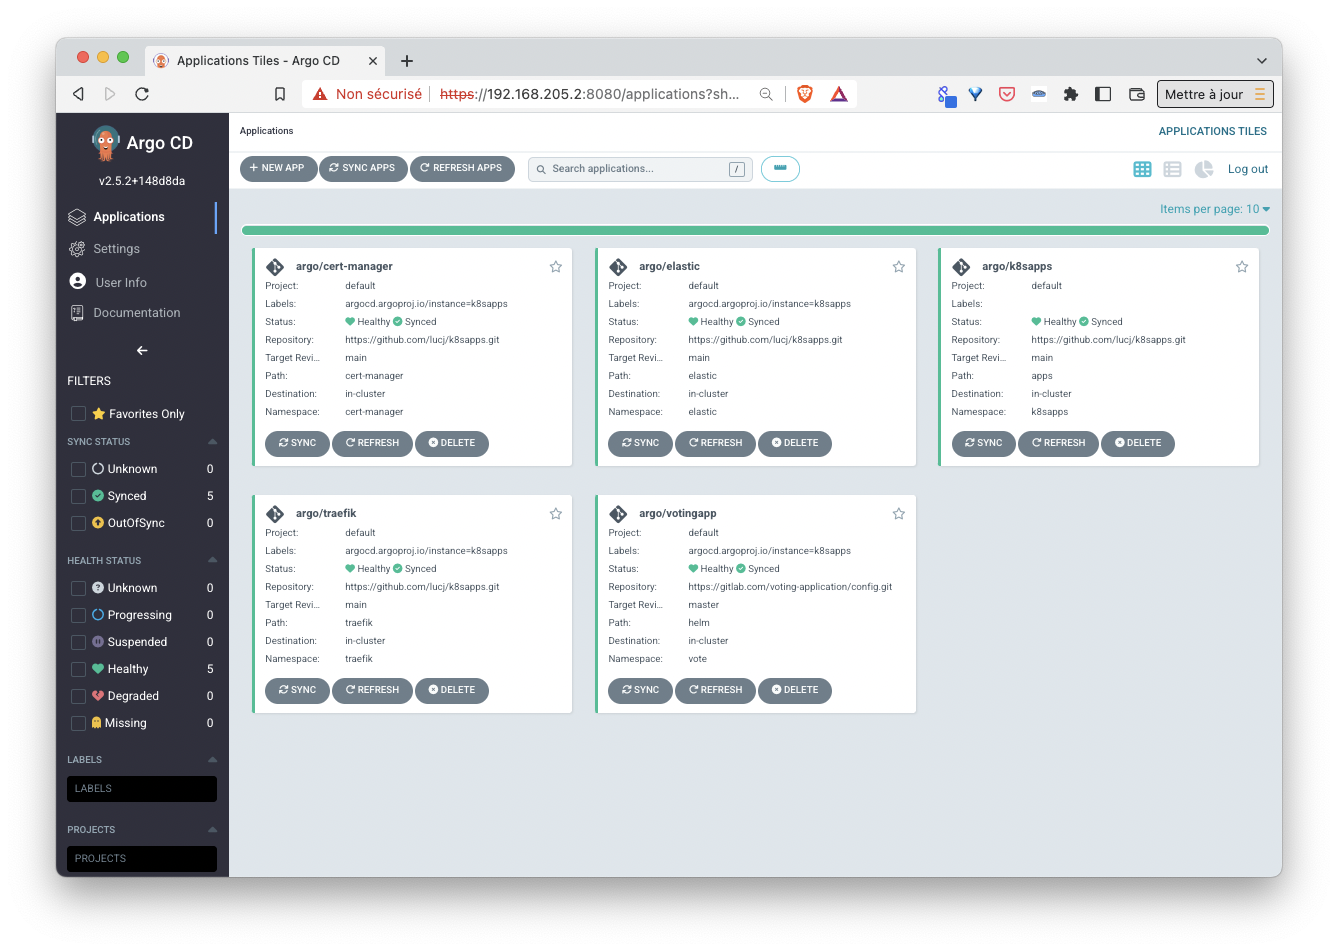
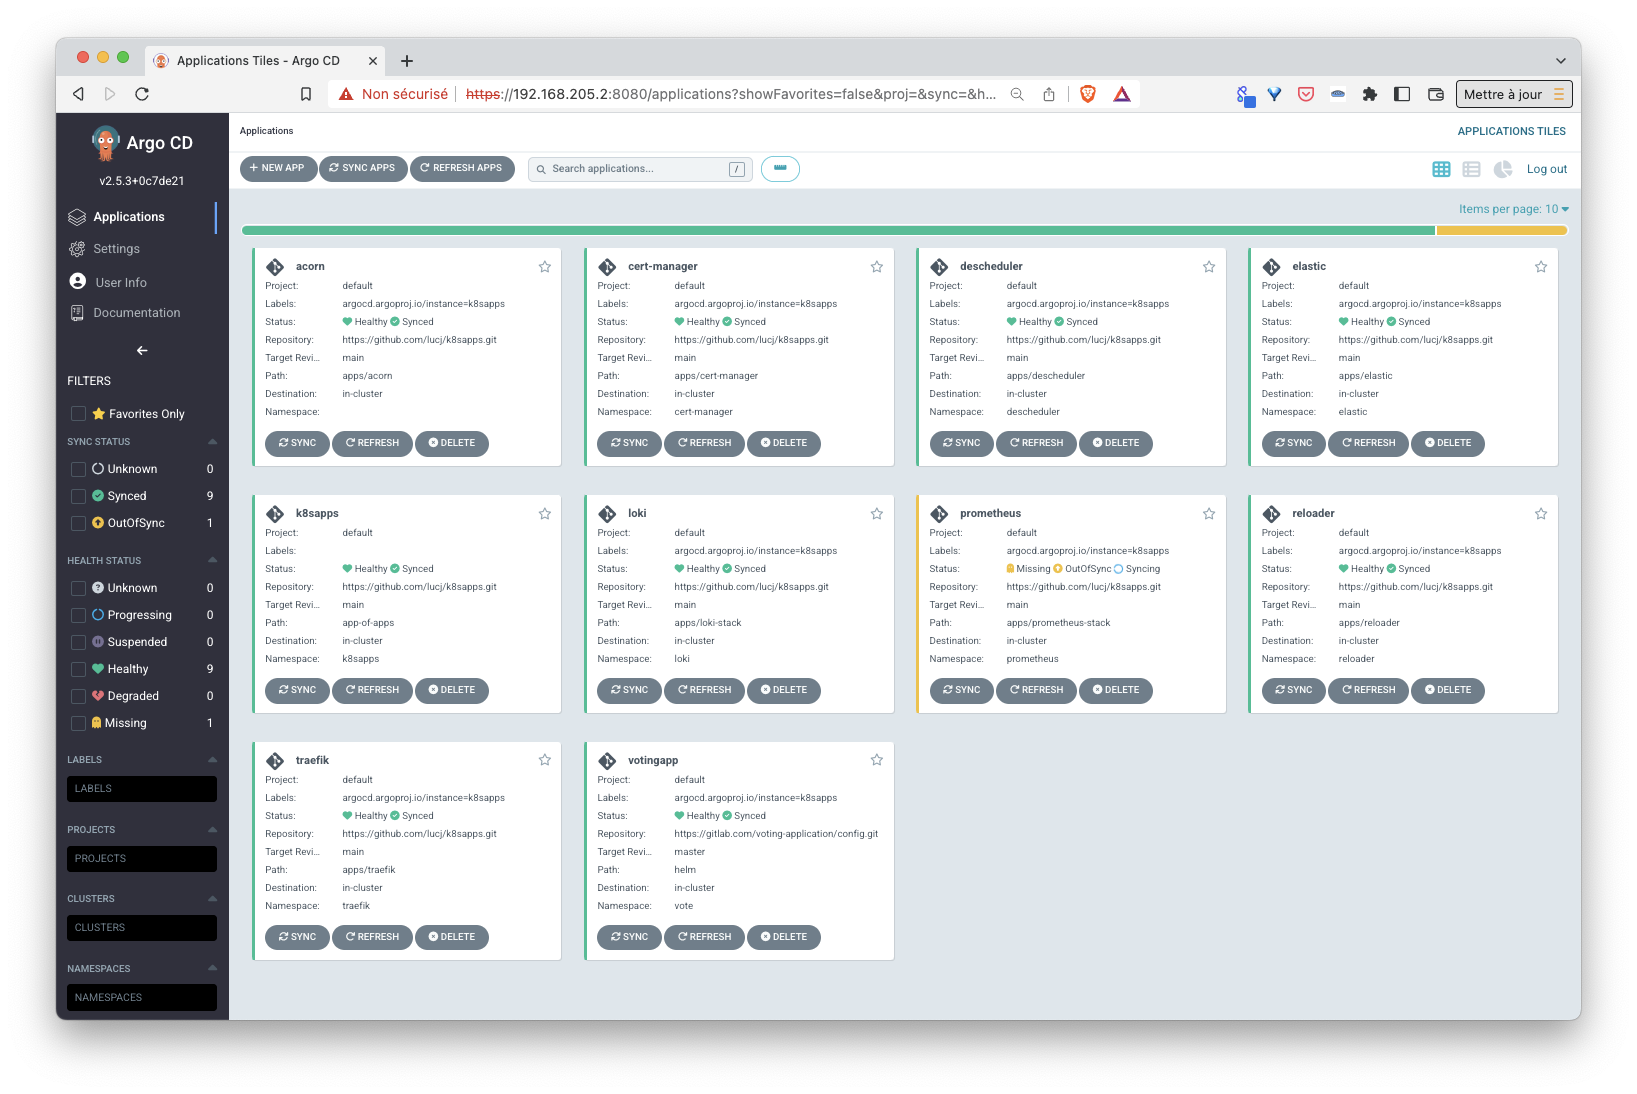
Change Argo CD sample screenshot

diff --git a/README.md b/README.md
@@ -7,8 +7,10 @@ To create a local Kubernetes one-node cluster you can use [Multipass](https://mu
 First we create a VM named kube:
 
 ```
-multipass launch -n kube -c 2 -d 15G -m 4G
+multipass launch -n kube -c 4 -d 20G -m 6G
 ```
+
+Note: we use specific flags to give the VM more resources than the default ones (1 cpu, 1G RAM, 5G Disk) so we have enough to install several applications
 
 Next we run a shell in that VM:
 
@@ -126,7 +128,7 @@ kubectl -n argocd port-forward service/argocd-server 8080:443 --address 0.0.0.0
 
 - then we can access the UI using the IP address of the VM created above
 
-From the Argo CD UI we can see that the creation of the above application automatically triggers the creation of the other applications that are defined in the apps folder (traefik, cert-manager, VotingApp and the Elastic stack).
+From the Argo CD UI we can see that the creation of the above application automatically triggers the creation of the other applications that are defined in the apps folder (traefik, cert-manager, ...).
 
 ![Argo CD](./images/argocd.png)
 
